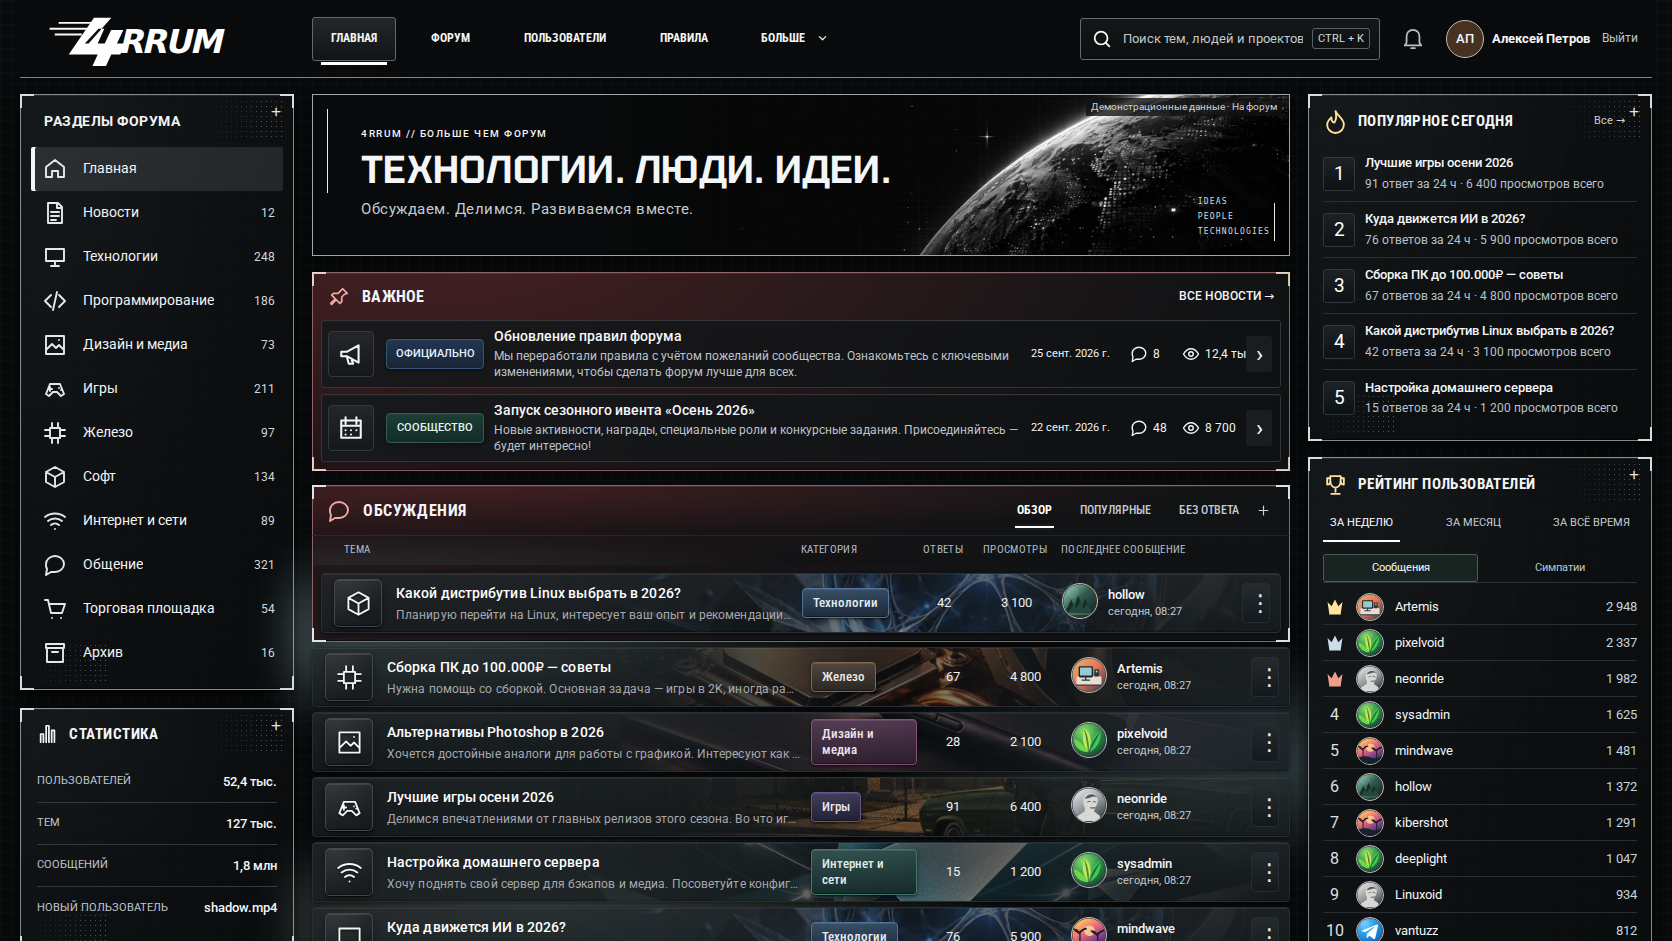
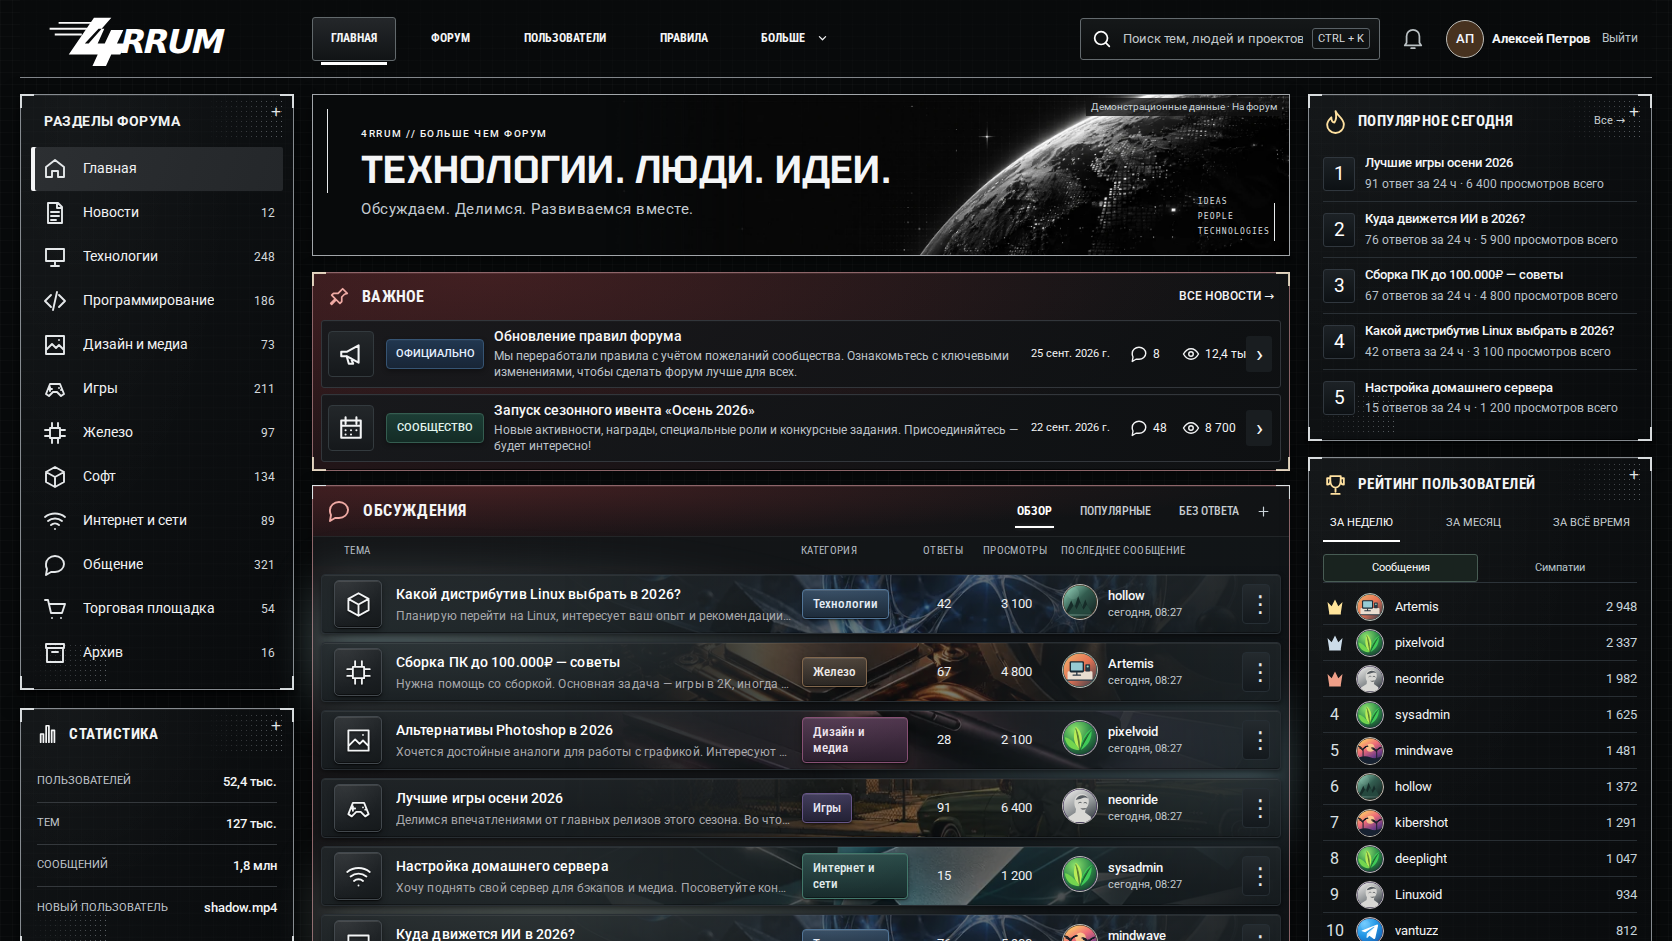
Enclose all discussions in one panel with spaced topic rows (#159)

diff --git a/apps/web/components/reference-home.tsx b/apps/web/components/reference-home.tsx
@@ -267,7 +267,7 @@ export function HomeDashboard({ initialData, demo = false }: { initialData: Home
  const visible = tab === 'new' && !community ? diverseTopics(matchingTopics, item => topicBackdrop(item.community.slug, item.community.name)) : matchingTopics;
  const news = initialData.announcements?.slice(0, 4) ?? [];
  const important = [...news.slice(0,2), ...topics.filter(item => item.isOfficial && item.pinnedUntil && Date.parse(item.pinnedUntil)>Date.now() && !news.some(row => row.id === item.id))].slice(0,2);
- return <div id="top" className={`forum-home ${viewer === 'guest' ? 'is-guest' : ''}`} data-home-reference="v49" data-home-revision="v86" onClickCapture={demo ? event=>{const link=(event.target as HTMLElement).closest('a');if(link && link.getAttribute('href')!=='/')event.preventDefault();} : undefined}>
+ return <div id="top" className={`forum-home ${viewer === 'guest' ? 'is-guest' : ''}`} data-home-reference="v49" data-home-revision="v87" onClickCapture={demo ? event=>{const link=(event.target as HTMLElement).closest('a');if(link && link.getAttribute('href')!=='/')event.preventDefault();} : undefined}>
   {!demo && <HomeWebVitals/>}
   <aside ref={sidebarRef} className={`forum-sidebar ${sidebar ? 'is-open' : ''}`} aria-label="Навигация форума">
    <button type="button" className="forum-sidebar-close" onClick={()=>setSidebar(false)} aria-label="Закрыть меню"><Icon name="close"/></button>
@@ -320,6 +320,7 @@ export function HomeDashboard({ initialData, demo = false }: { initialData: Home
      </Link>)}</div>
    </section>}
 
+   <div className="forum-discussions">
    <div className="forum-feed-toolbar">
     <h2 className="forum-feed-title"><Icon name="comment"/>Обсуждения</h2>
     <div className="forum-tabs" role="group" aria-label="Выбор ленты">{tabs.map(item => <button type="button" aria-label={item.id==='new'?'Обзор разных разделов':item.id==='popular'?'Активные темы за 24 часа':'Темы без ответов'} aria-pressed={item.id === tab} key={item.id} title={item.id === 'popular' ? 'Темы с ответами за последние 24 часа' : item.id === 'new' ? 'Новые темы с чередованием разделов' : undefined} onClick={() => choose(item.id, community)}>{item.label}</button>)}</div>
@@ -355,9 +356,10 @@ export function HomeDashboard({ initialData, demo = false }: { initialData: Home
    </div>}
    {community && <div className="forum-active-filter">{communityLabel(communities.find(item=>item.slug===community)?.name || community)}<button type="button" onClick={()=>choose(tab,'')} aria-label="Сбросить выбранное сообщество">×</button></div>}
    {pendingTopics && !loading && <button type="button" className="forum-feed-update" onClick={() => {setTopics(pendingTopics.slice(0,20));setHasMore(pendingTopics.length>20);setOffset(20);setPendingTopics(null);}}>Есть обновления в ленте · Показать</button>}
-   <section className="forum-feed" aria-label="Темы форума" aria-busy={loading} aria-live="polite">{loading ? <div className="forum-empty" role="status">Загружаем темы…</div> : error ? <div className="forum-empty" role="alert"><p>{error}</p><button type="button" className="forum-button" onClick={() => setRetry(value => value + 1)}>Попробовать снова</button></div> : visible.length ? visible.map((item, index) => index === 0 ? <div className="forum-feed-lead" key={`${tab}-${item.id}`}><Topic item={item} history={history} communities={communities} demo={demo} guest={viewer === 'guest'}/></div> : <Topic key={`${tab}-${item.id}`} item={item} history={history} communities={communities} demo={demo} guest={viewer === 'guest'}/>) : <div className="forum-empty"><strong>{tab==='popular'?'За сутки новых ответов пока нет':tab==='unanswered'?'Вопросов без ответа пока нет':'Здесь пока нет тем'}</strong><p>Выберите другую подборку или начните своё обсуждение.</p><Link className="forum-button" href="/create">Создать тему</Link></div>}</section>
+   <section className="forum-feed" aria-label="Темы форума" aria-busy={loading} aria-live="polite">{loading ? <div className="forum-empty" role="status">Загружаем темы…</div> : error ? <div className="forum-empty" role="alert"><p>{error}</p><button type="button" className="forum-button" onClick={() => setRetry(value => value + 1)}>Попробовать снова</button></div> : visible.length ? visible.map(item => <Topic key={`${tab}-${item.id}`} item={item} history={history} communities={communities} demo={demo} guest={viewer === 'guest'}/>) : <div className="forum-empty"><strong>{tab==='popular'?'За сутки новых ответов пока нет':tab==='unanswered'?'Вопросов без ответа пока нет':'Здесь пока нет тем'}</strong><p>Выберите другую подборку или начните своё обсуждение.</p><Link className="forum-button" href="/create">Создать тему</Link></div>}</section>
    {!loading && !error && hasMore && !demo && <div className="forum-load-more"><button className="forum-button" type="button" disabled={loadingMore} onClick={()=>void loadMore()}>{loadingMore?'Загружаем…':'Показать ещё обсуждения'}</button></div>}
    {!loading && !error && !hasMore && visible.length > 0 && <footer className="forum-feed-end"><span>Вы просмотрели все обсуждения в этой подборке</span><a href="#top">Наверх ↑</a></footer>}
+   </div>
    <section className="forum-alpha-help" aria-label="Участие в альфе"><span><strong>Закрытая альфа</strong> · Проверяем форум вместе. Нашли неудобство или ошибку?</span><Link href="/support#alpha">Сообщить о проблеме →</Link></section>
    {moreError && <p className="forum-action-error" role="alert">{moreError}</p>}
   </div>

diff --git a/apps/web/app/home-alpha.css b/apps/web/app/home-alpha.css
@@ -479,14 +479,15 @@ body:has(.forum-home) {background-color:#080a0b!important;background-image:linea
 
 @media(min-width:761px) and (max-width:1050px) {.forum-home .forum-feed::before {inset:-8px -10px -18px;}}
 
-/* The discussion header, column labels and first row share one continuous frame. */
-.forum-home .forum-topic-columns {border-color:#8d6569;border-top-color:#ffffff12;border-bottom:0;background:linear-gradient(120deg,#211719f5,#111315f2 75%);padding-right:20px;padding-left:31px;}
-.forum-home .forum-feed {padding-top:0;}
-.forum-home .forum-feed-lead {position:relative;padding:8px;border:1px solid #8d6569;border-top:0;background:linear-gradient(120deg,#211719f5,#111315f2 75%);box-shadow:inset 0 -1px #0008,0 4px 12px #0004;}
-.forum-home .forum-feed-lead::before {content:'';position:absolute;inset:0 -1px -1px;pointer-events:none;background:linear-gradient(#e0e4e6,#e0e4e6) left bottom/14px 2px no-repeat,linear-gradient(#e0e4e6,#e0e4e6) left bottom/2px 14px no-repeat,linear-gradient(#e0e4e6,#e0e4e6) right bottom/14px 2px no-repeat,linear-gradient(#e0e4e6,#e0e4e6) right bottom/2px 14px no-repeat;}
-.forum-home .forum-feed-lead:focus-within,.forum-home .forum-feed-lead:has(.forum-actions-popover),.forum-home .forum-feed-lead:has(.forum-action-notice) {z-index:30;}
-@media(min-width:761px) and (max-width:1450px) {.forum-home .forum-topic-columns {padding-left:26px;padding-right:16px;}}
-@media(max-width:760px) {.forum-home .forum-feed {padding-top:0;}}
-@media(forced-colors:active) {.forum-home :is(.forum-feed-lead,.forum-topic-columns) {background:Canvas;border-color:CanvasText;}}
-
-.forum-home .forum-feed>.forum-empty {margin:0;border:1px solid #8d6569;border-top:0;background:linear-gradient(120deg,#211719f5,#111315f2 75%);}
+/* All discussions belong to one panel; row gaps remain inside its frame. */
+.forum-home .forum-discussions {position:relative;margin-top:14px;border:1px solid #8d6569;background:linear-gradient(120deg,#191719e8,#111518df 75%);box-shadow:inset 0 1px #ffffff0e,inset 0 -1px #0008,0 4px 18px #0005;}
+.forum-home .forum-discussions::before {content:'';position:absolute;inset:-1px;pointer-events:none;background:linear-gradient(#e0e4e6,#e0e4e6) left top/14px 2px no-repeat,linear-gradient(#e0e4e6,#e0e4e6) left top/2px 14px no-repeat,linear-gradient(#e0e4e6,#e0e4e6) right top/14px 2px no-repeat,linear-gradient(#e0e4e6,#e0e4e6) right top/2px 14px no-repeat,linear-gradient(#e0e4e6,#e0e4e6) left bottom/14px 2px no-repeat,linear-gradient(#e0e4e6,#e0e4e6) left bottom/2px 14px no-repeat,linear-gradient(#e0e4e6,#e0e4e6) right bottom/14px 2px no-repeat,linear-gradient(#e0e4e6,#e0e4e6) right bottom/2px 14px no-repeat;}
+.forum-home .forum-discussions .forum-feed-toolbar {margin-top:0;border:0;}
+.forum-home .forum-discussions .forum-feed-toolbar::before {display:none;}
+.forum-home .forum-discussions .forum-topic-columns {border:0;border-top:1px solid #ffffff12;background:#11151880;padding-left:31px;padding-right:20px;}
+.forum-home .forum-discussions .forum-feed {padding:8px;gap:8px;}
+.forum-home .forum-discussions .forum-feed::before {inset:0;}
+.forum-home .forum-discussions :is(.forum-feed-end,.forum-load-more) {margin:0;padding:12px;}
+.forum-home .forum-discussions .forum-empty {margin:0;}
+@media(min-width:761px) and (max-width:1450px) {.forum-home .forum-discussions .forum-topic-columns {padding-left:26px;padding-right:16px;}}
+@media(forced-colors:active) {.forum-home .forum-discussions {background:Canvas;border-color:CanvasText;}}
